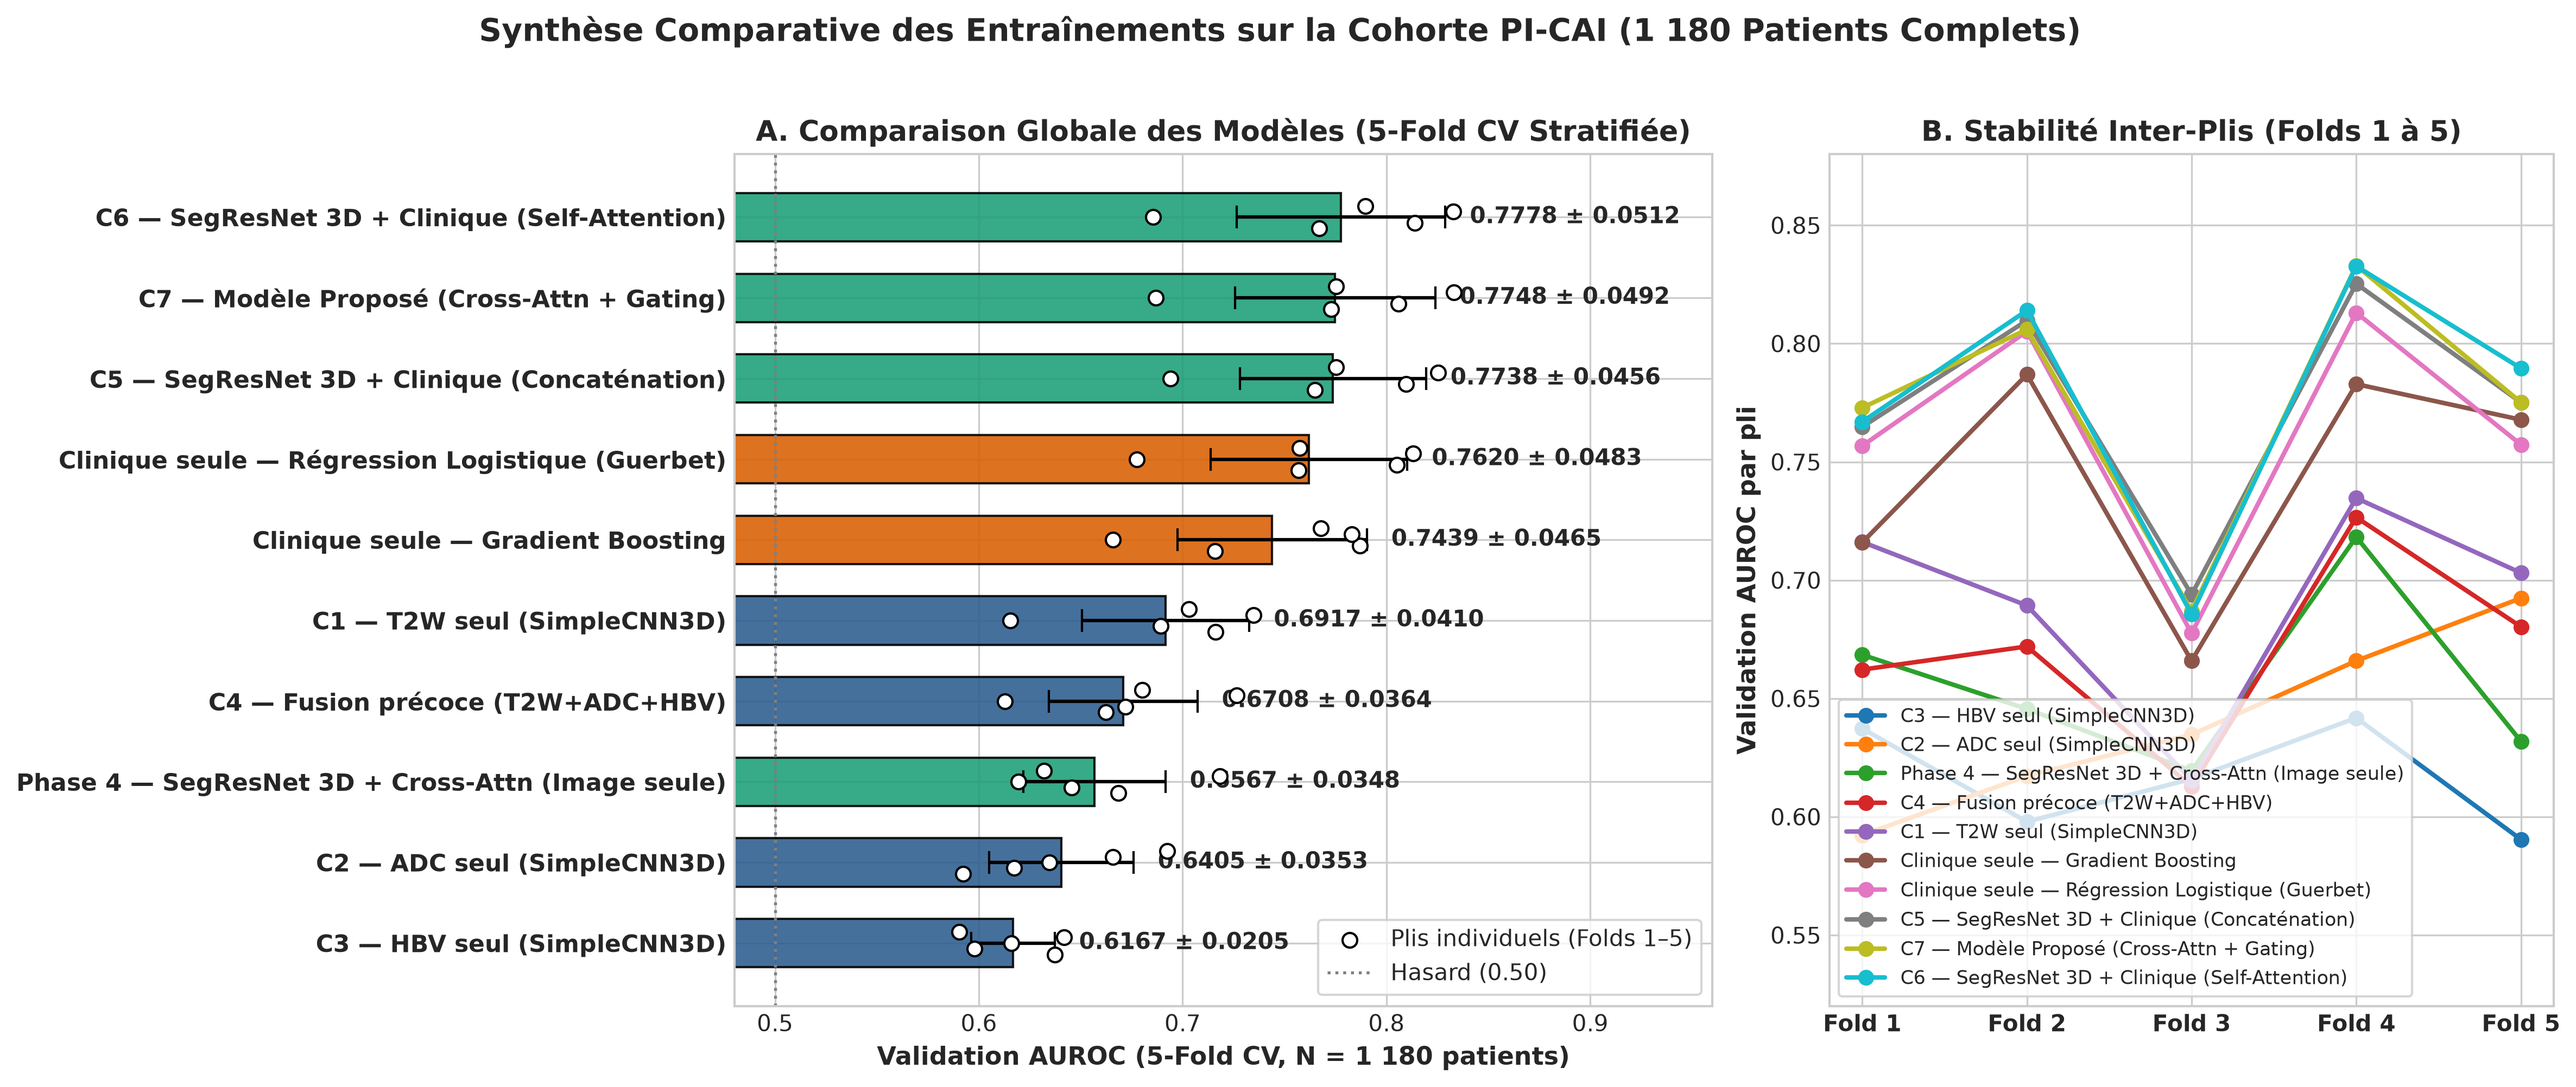
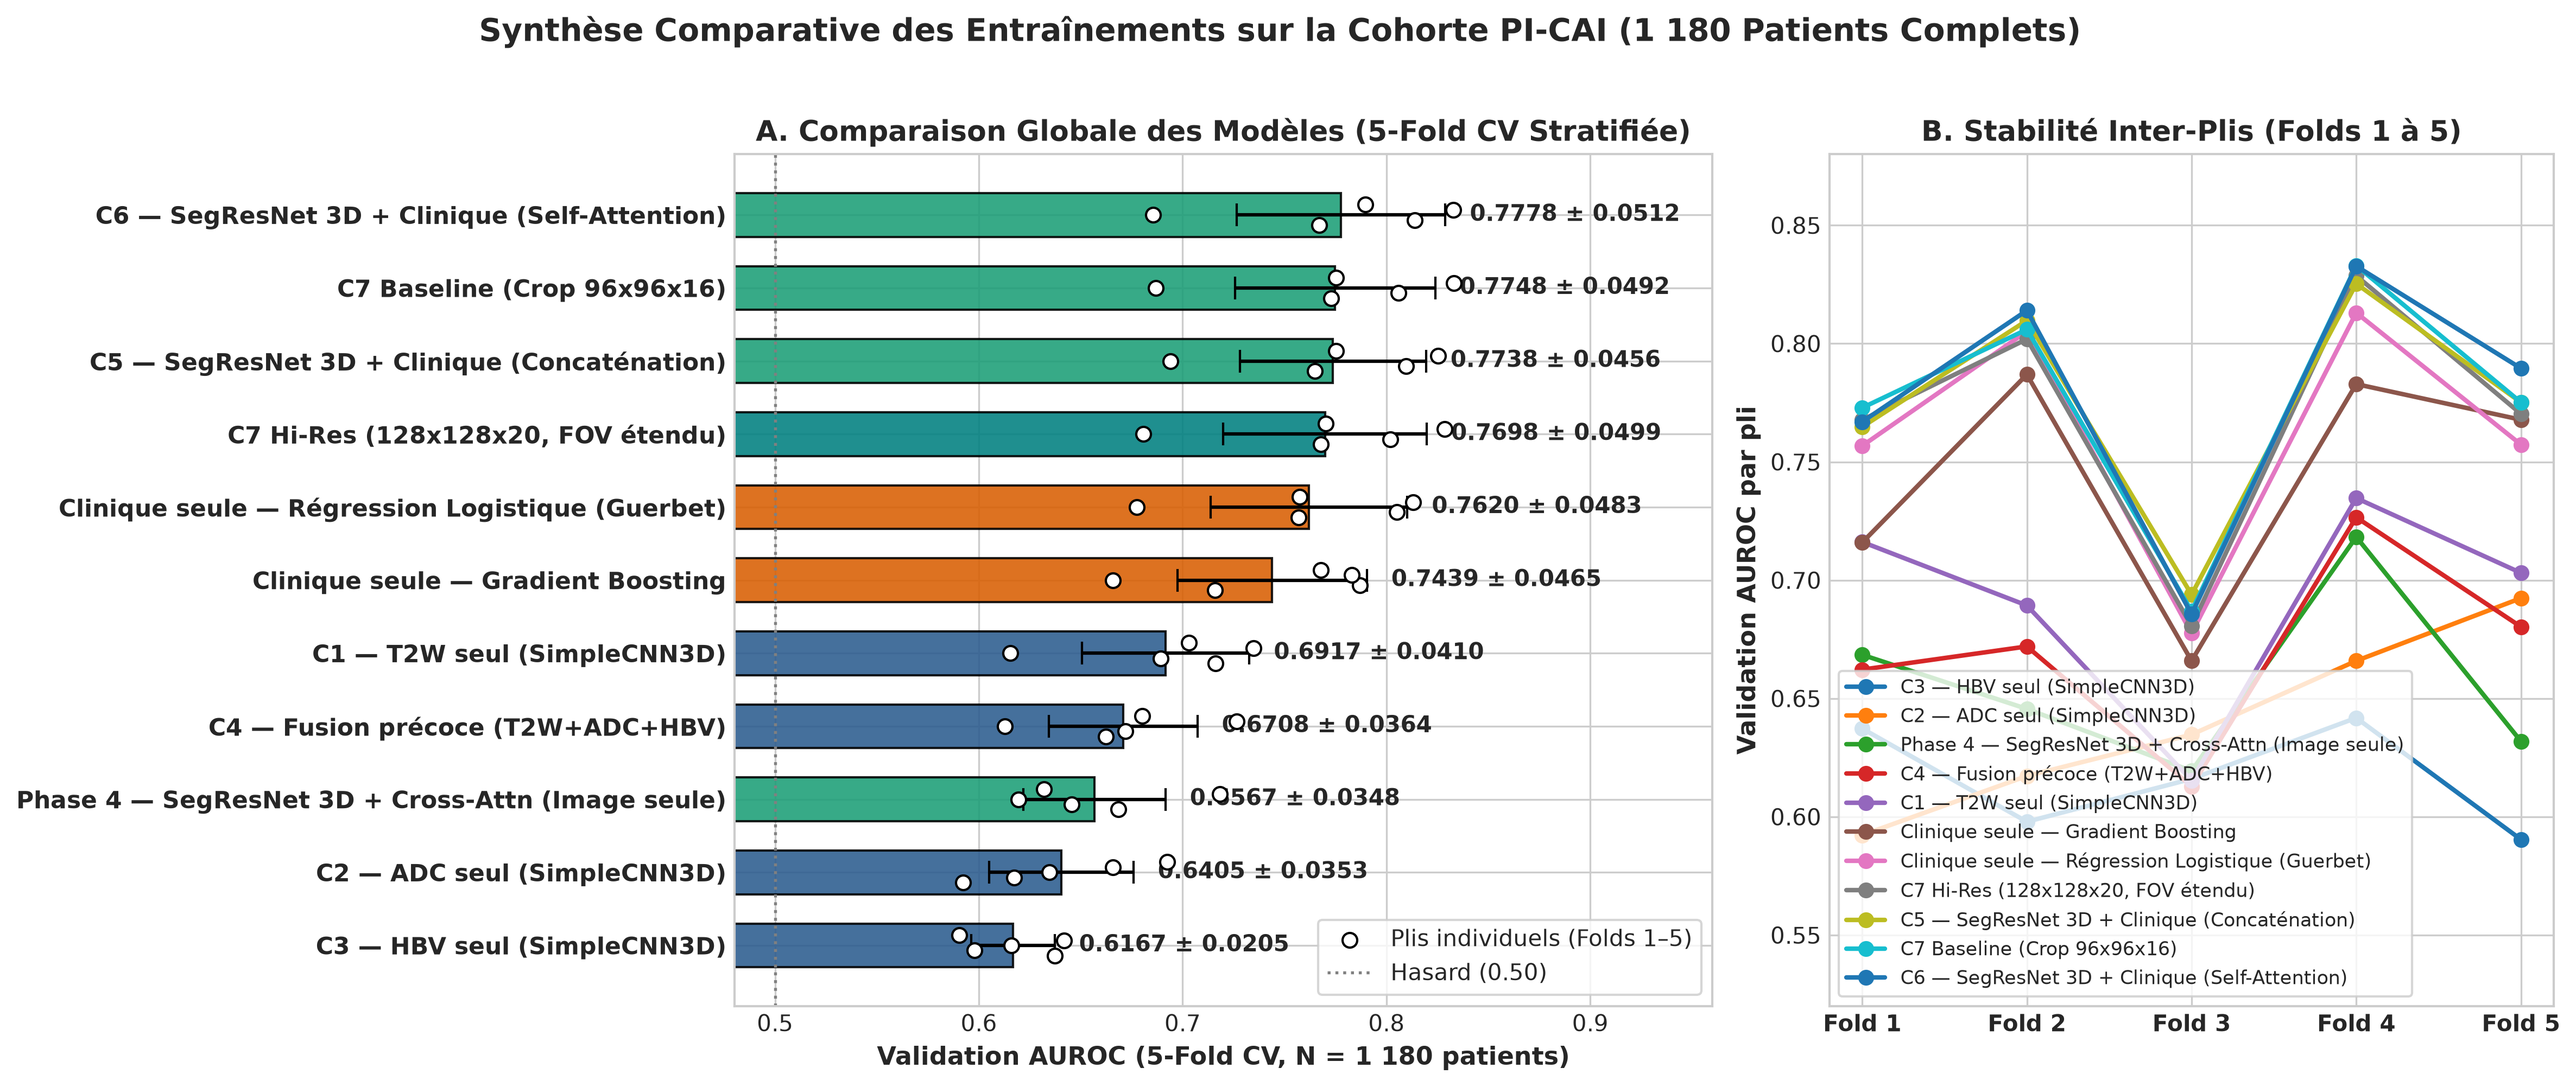
feat(hires): add C7 Hi-Res (128x128x20) 5-fold CV results, XAI Grad-CAM++ visuals, robustness Table 5.2, and updated figures

diff --git a/scripts/run_robustness_and_loco.py b/scripts/run_robustness_and_loco.py
@@ -150,7 +150,8 @@ def run_stress_tests(
 
     if ckpt_path.exists():
         state = torch.load(ckpt_path, map_location=device, weights_only=False)
-        model.load_state_dict(state["model"])
+        model_key = "model_state_dict" if "model_state_dict" in state else "model"
+        model.load_state_dict(state[model_key])
         print(f"[Robustness] Checkpoint chargé : {ckpt_path}")
 
     auroc_clean = evaluate_under_degradation(model, val_ds, device, severity="clean")
